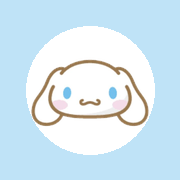
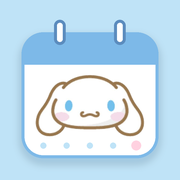
앱 아이콘을 하늘색 달력 + 시나모롤로 변경
- 홈 화면 아이콘: 하늘색 배경, 하늘색 머리의 달력 안에 시나모롤 얼굴
- 안드로이드 동그라미 잘림 대비 maskable 아이콘 따로 추가
- 시작 화면 배경색을 흰색으로
- 서비스워커 캐시 v6

diff --git a/sw.js b/sw.js
@@ -1,5 +1,5 @@
 /* sw.js — 오프라인 동작용 서비스워커 (앱 파일을 기기에 저장해 둬요) */
-var CACHE = "cinnamo-calendar-v5";
+var CACHE = "cinnamo-calendar-v6";
 var ASSETS = [
   "./",
   "./index.html",
@@ -32,6 +32,8 @@ var ASSETS = [
   "./icons/app/stickers.png",
   "./icons/app/icon-192.png",
   "./icons/app/icon-512.png",
+  "./icons/app/icon-192-maskable.png",
+  "./icons/app/icon-512-maskable.png",
   "./icons/app/apple-touch-icon.png"
 ];
 
